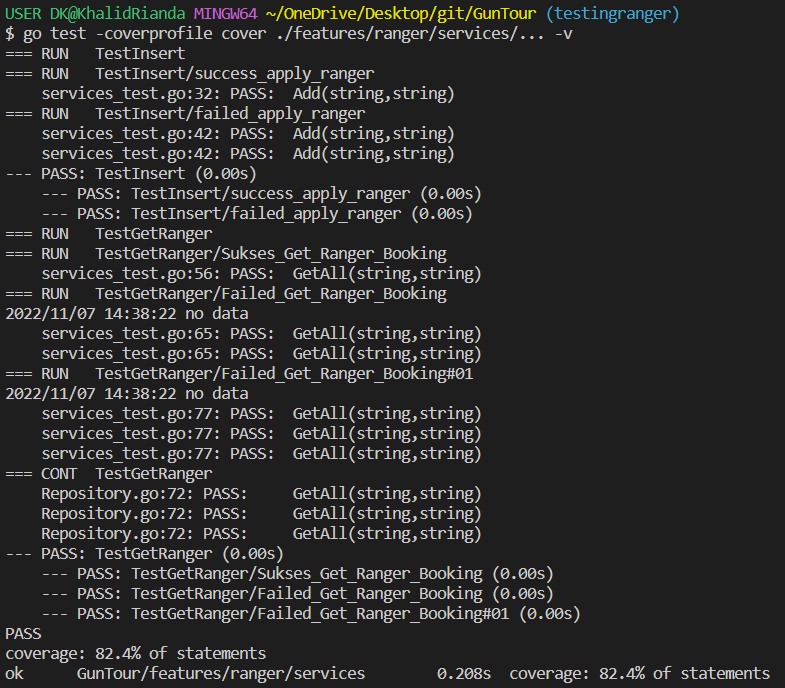
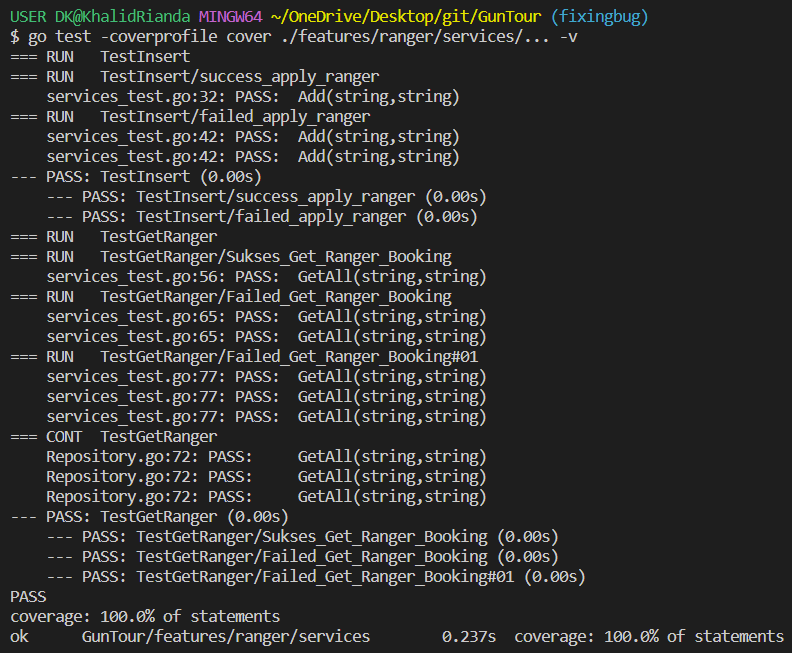
fixing bug and testing unit

Changed region(s): [[0.0, 0.0, 0.8561, 1.0], [0.5503, 0.9495, 1.0, 1.0]]

diff --git a/features/product/services/services_test.go b/features/product/services/services_test.go
@@ -34,31 +34,6 @@ func TestShowAll(t *testing.T) {
 		assert.Equal(t, 0, totalPage)
 		repo.AssertExpectations(t)
 	})
-	// repo := mocks.NewRepository(t)
-	// page := 1
-	// ret := []domain.Core{{ID: 1, ProductName: "tenda", RentPrice: 10000, ProductPicture: "https://guntour.s3.ap-southeast-1.amazonaws.com/posts/78Yawh7DexFdxltGofhy-1000_F_346839683_6nAPzbhpSkIpb8pmAwufkC7c5eD7wYws.jpg"}}
-
-	// t.Run("success get all product", func(t *testing.T) {
-	// 	repo.On("GetAll", mock.Anything).Return(ret, 1, 1, nil).Once()
-	// 	srv := New(repo)
-	// 	res, pages, totalPage, err := srv.ShowAll(uint(page))
-	// 	assert.Nil(t, err)
-	// 	assert.NotEmpty(t, pages)
-	// 	assert.NotEmpty(t, totalPage)
-	// 	assert.Equal(t, ret, res)
-	// 	repo.AssertExpectations(t)
-	// })
-
-	// t.Run("failed get all product", func(t *testing.T) {
-	// 	repo.On("GetAll", mock.Anything).Return([]domain.Core{}, 0, 0, errors.New("no data")).Once()
-	// 	srv := New(repo)
-	// 	res, pages, totalPage, err := srv.ShowAll(uint(page))
-	// 	assert.NotNil(t, err)
-	// 	assert.Empty(t, res)
-	// 	assert.Equal(t, 0, pages)
-	// 	assert.Equal(t, 0, totalPage)
-	// 	repo.AssertExpectations(t)
-	// })
 }
 
 func TestShowByID(t *testing.T) {
@@ -79,7 +54,7 @@ func TestShowByID(t *testing.T) {
 		repo.On("GetByID", mock.Anything).Return(domain.Core{}, errors.New("no data")).Once()
 		srv := New(repo)
 		res, err := srv.ShowByID(uint(id))
-		assert.Nil(t, err)
+		assert.NotNil(t, err)
 		assert.Empty(t, res)
 		repo.AssertExpectations(t)
 	})

diff --git a/config/config.go b/config/config.go
@@ -3,8 +3,8 @@ package config
 import (
 	"log"
 	"os"
-
-	"github.com/joho/godotenv"
+	"strconv"
+	// "github.com/joho/godotenv"
 )
 
 type AppConfig struct {
@@ -30,23 +30,21 @@ func NewConfig() *AppConfig {
 func initConfig() *AppConfig {
 	var app AppConfig
 
-	godotenv.Load("config.env")
+	// godotenv.Load("config.env")
 
-	// serverPortConv, err := strconv.Atoi(os.Getenv("SERVER_PORT"))
-	// if err != nil {
-	// 	log.Fatal("error parse server port")
-	// 	return nil
-	// }
-	// app.ServerPort = serverPortConv
-	app.ServerPort = 8000
+	serverPortConv, err := strconv.Atoi(os.Getenv("SERVER_PORT"))
+	if err != nil {
+		log.Fatal("error parse server port")
+		return nil
+	}
+	app.ServerPort = serverPortConv
 
-	// port, err := strconv.Atoi(os.Getenv("DB_PORT"))
-	// if err != nil {
-	// 	log.Fatal("error parse db port")
-	// 	return nil
-	// }
-	// app.DBPort = port
-	app.DBPort = 3306
+	port, err := strconv.Atoi(os.Getenv("DB_PORT"))
+	if err != nil {
+		log.Fatal("error parse db port")
+		return nil
+	}
+	app.DBPort = port
 
 	app.DBUser = os.Getenv("DB_USERNAME")
 	app.DBPass = os.Getenv("DB_PASSWORD")

diff --git a/features/product/delivery/handler.go b/features/product/delivery/handler.go
@@ -50,10 +50,10 @@ func (ph *productHandler) ShowByID() echo.HandlerFunc {
 
 		res, err := ph.srv.ShowByID(uint(productID))
 		if err != nil {
-			if strings.Contains(err.Error(), "page") {
-				return c.JSON(http.StatusNotFound, FailResponse("page not found."))
+			if strings.Contains(err.Error(), "found") {
+				return c.JSON(http.StatusNotFound, FailResponse("data not found."))
 			}
-			return c.JSON(http.StatusNotFound, FailResponse("no data."))
+			return c.JSON(http.StatusInternalServerError, FailResponse("there is a problem on server."))
 		}
 		return c.JSON(http.StatusOK, SuccessResponse("success get product detail", ToResponse(res, "detail")))
 

diff --git a/features/product/services/services.go b/features/product/services/services.go
@@ -3,7 +3,6 @@ package services
 import (
 	"GunTour/features/product/domain"
 	"errors"
-	"strings"
 )
 
 type productService struct {
@@ -29,11 +28,7 @@ func (ps *productService) ShowByID(id uint) (domain.Core, error) {
 
 	res, err := ps.qry.GetByID(id)
 	if err != nil {
-		if strings.Contains(err.Error(), "table") {
-			return domain.Core{}, errors.New("database error")
-		} else if strings.Contains(err.Error(), "found") {
-			return domain.Core{}, errors.New("no data")
-		}
+		return domain.Core{}, err
 	}
 	return res, nil
 

diff --git a/features/ranger/services/services.go b/features/ranger/services/services.go
@@ -4,9 +4,7 @@ import (
 	"GunTour/features/ranger/domain"
 	"GunTour/utils/helper"
 	"errors"
-	"log"
 	"mime/multipart"
-	"strings"
 	"time"
 )
 
@@ -41,11 +39,7 @@ func (rs *rangerService) ShowAll(start time.Time, end time.Time) ([]domain.Core,
 
 	res, err := rs.qry.GetAll(start, end)
 	if err != nil {
-		log.Print(err.Error())
-		if strings.Contains(err.Error(), "found") {
-			return nil, errors.New("no data")
-		}
-		return nil, errors.New("there is problem on server")
+		return nil, err
 	}
 
 	return res, nil

diff --git a/features/ranger/delivery/handler.go b/features/ranger/delivery/handler.go
@@ -89,6 +89,9 @@ func (rh *rangerHandler) ShowAll() echo.HandlerFunc {
 
 			res, err := rh.srv.ShowAll(Start, End)
 			if err != nil {
+				if strings.Contains(err.Error(), "found") {
+					return c.JSON(http.StatusNotFound, FailResponse("data not found."))
+				}
 				return c.JSON(http.StatusInternalServerError, FailResponse("something went wrong"))
 			}
 			return c.JSON(http.StatusOK, SuccessResponse("success get ranger", ToResponse(res, "ranger")))
